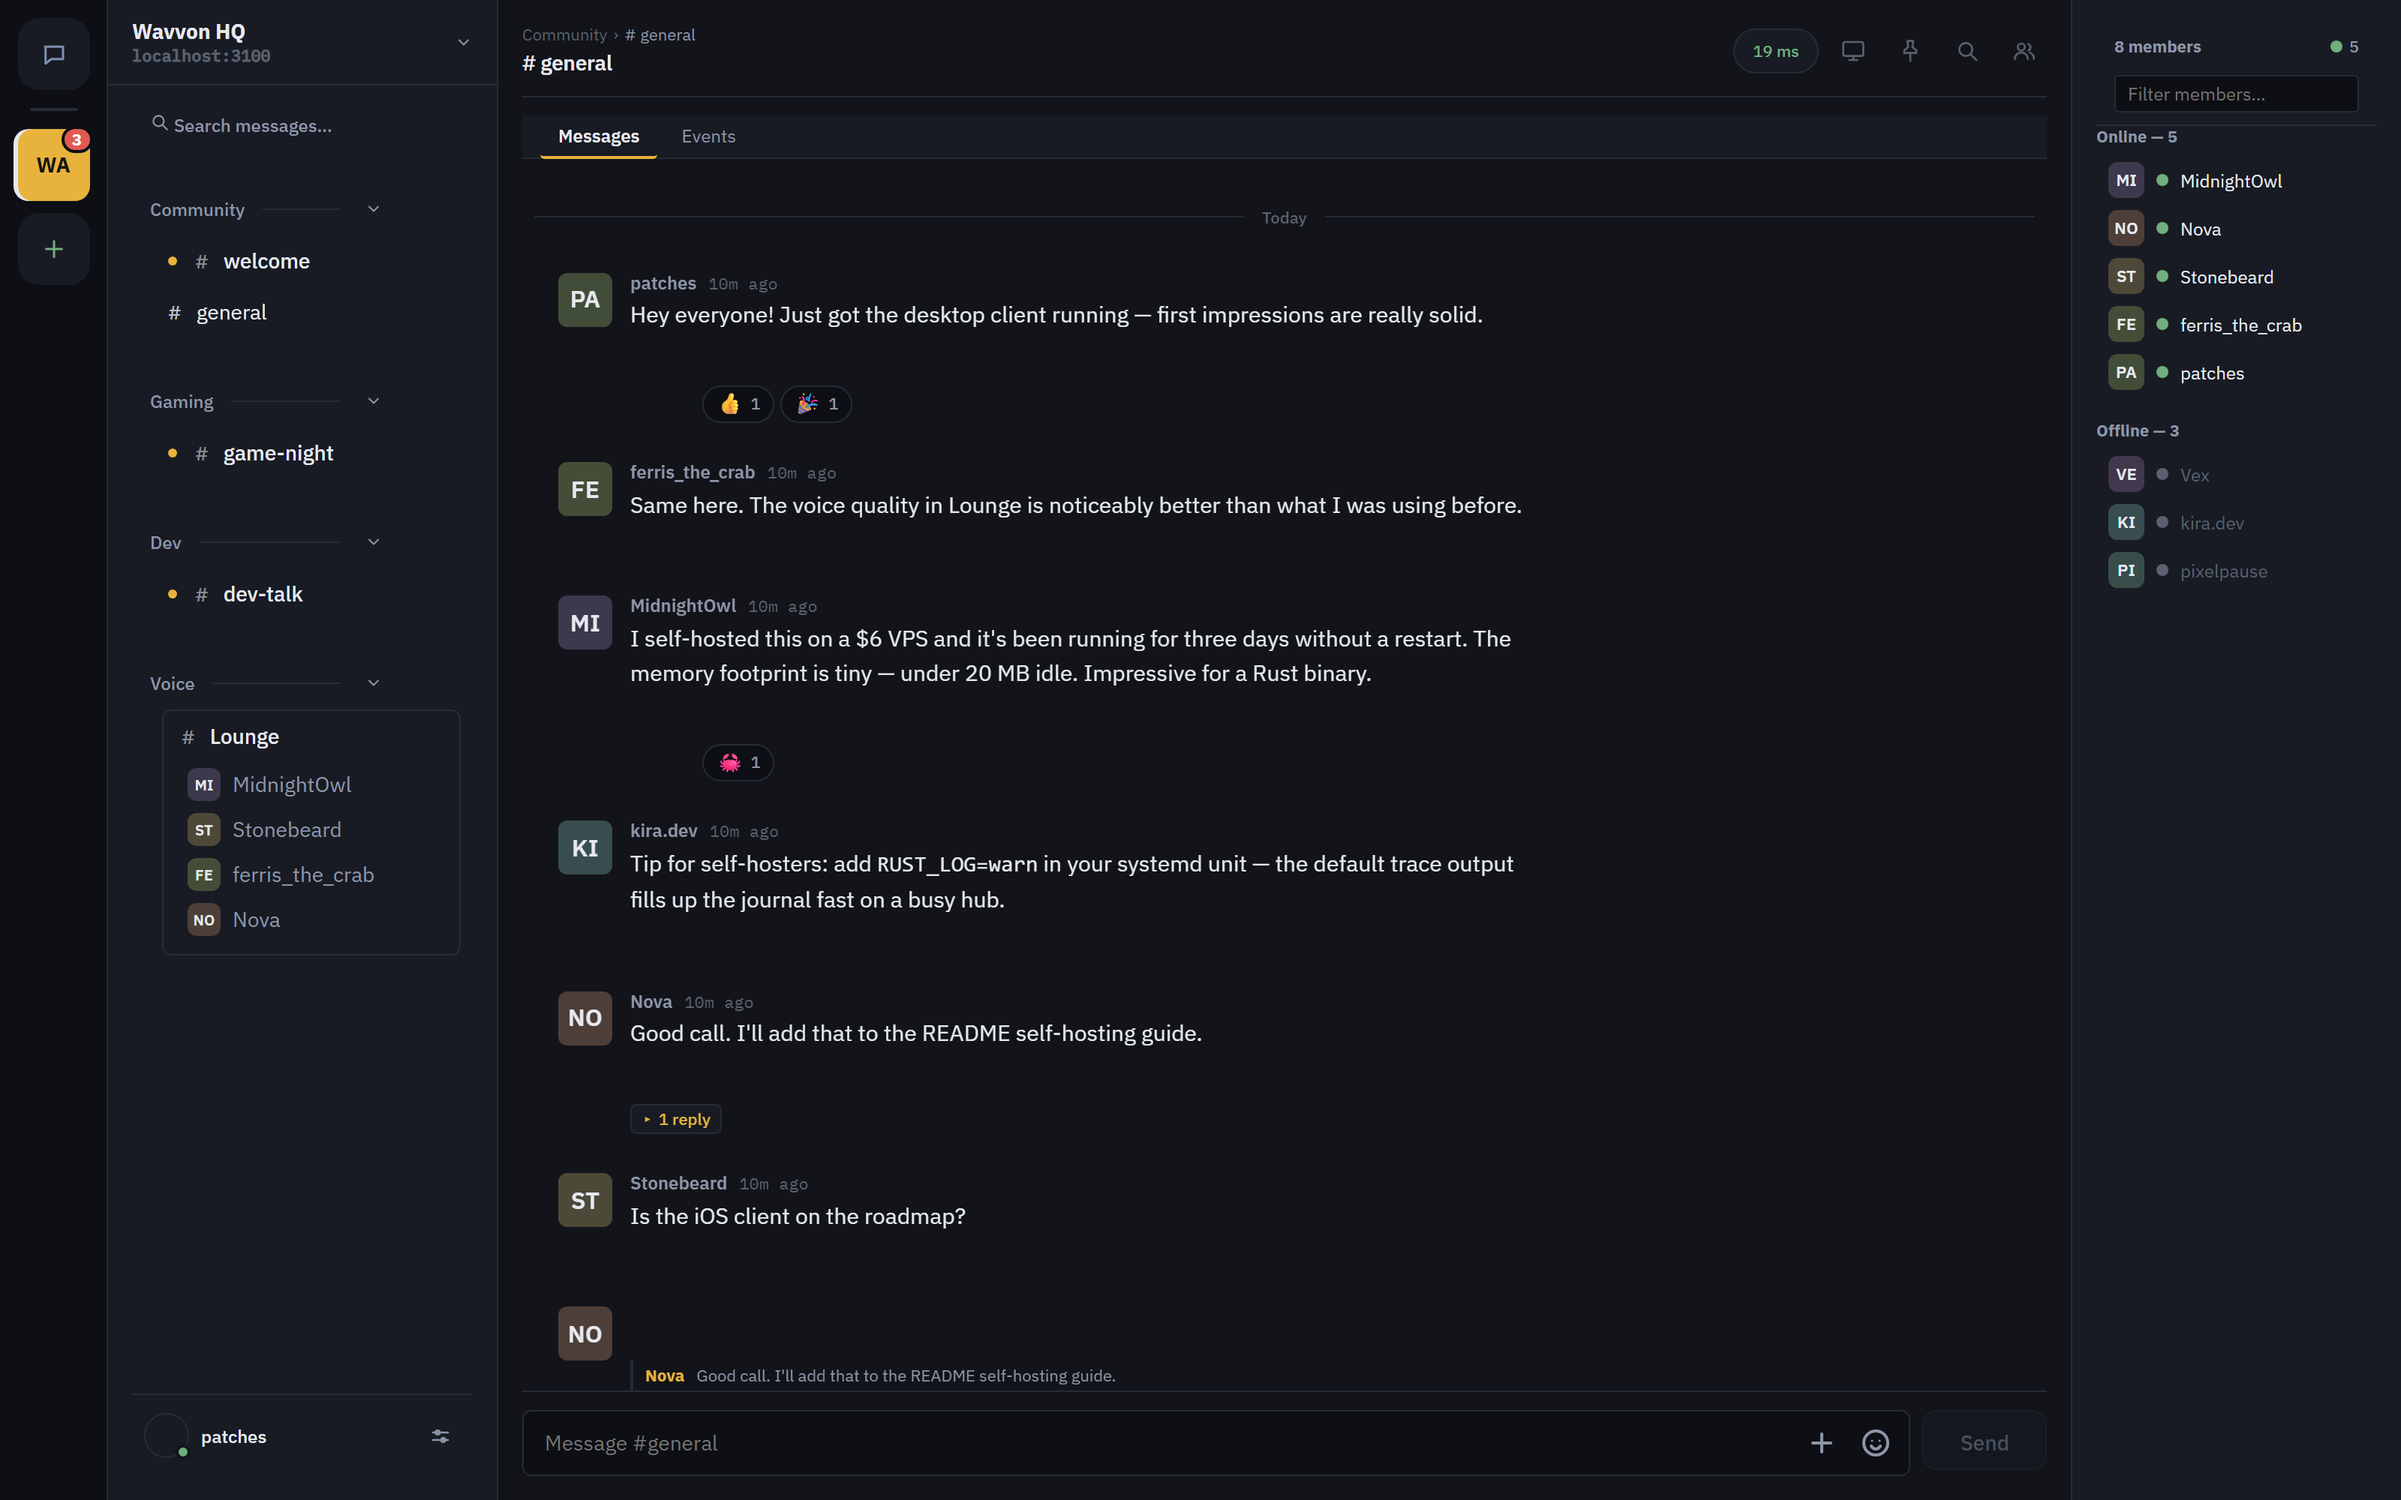
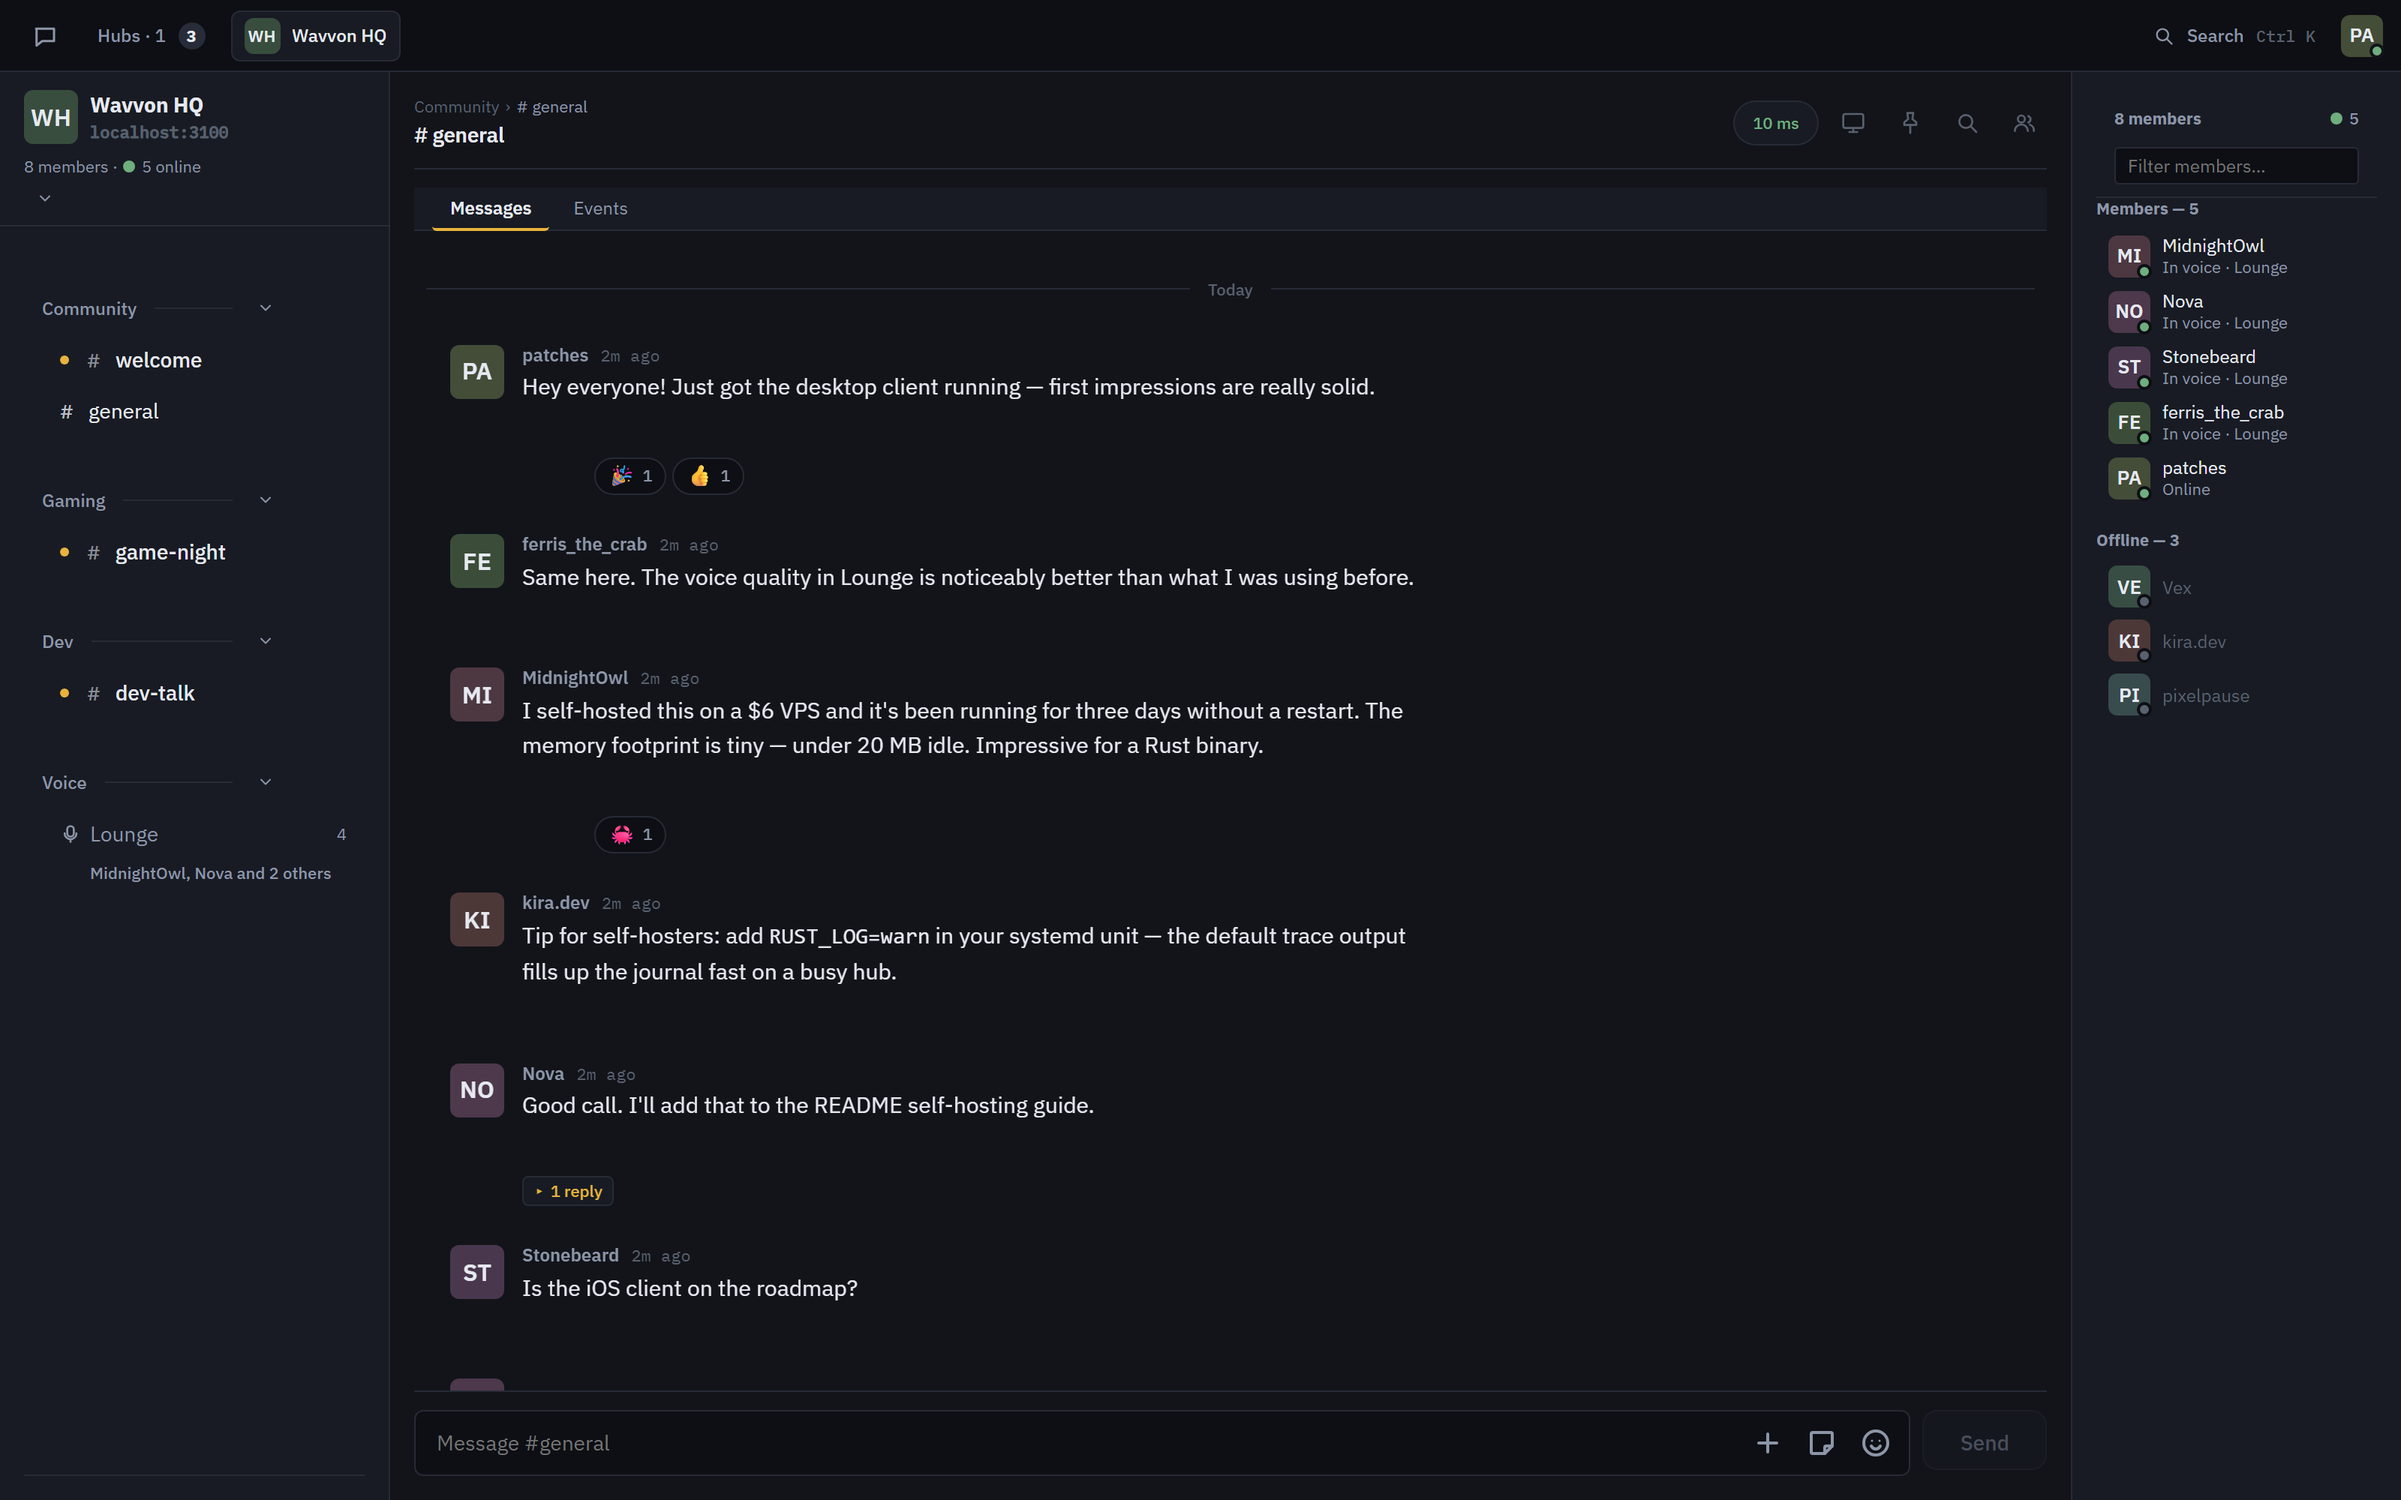
README assets: the 2026-11 layout
Recaptured with the clients' capture harness against a demo-seeded hub:
the join flow (two-half onboarding), the channel view (top bar, hub card,
members by role) and a new voice-room shot (stage and audience). The
server and web client READMEs link these same files.

diff --git a/README.md b/README.md
@@ -19,7 +19,9 @@ stacks up — including its honest limitations.
 
 ![Joining a Wavvon hub: create an identity, join, start chatting — in seconds, with no signup](assets/join-flow.gif)
 
-![A Wavvon community: text and voice channels, voice participants in the sidebar, live member presence](assets/screenshot-channel.png)
+![A Wavvon community: pinned hubs in the top bar, channels with who is in voice, members grouped by role with what they are doing](assets/screenshot-channel.png)
+
+![A voice room: people and media only, the people you pinned on the stage and everyone else in the audience](assets/screenshot-voice.png)
 
 ## Get started
 
